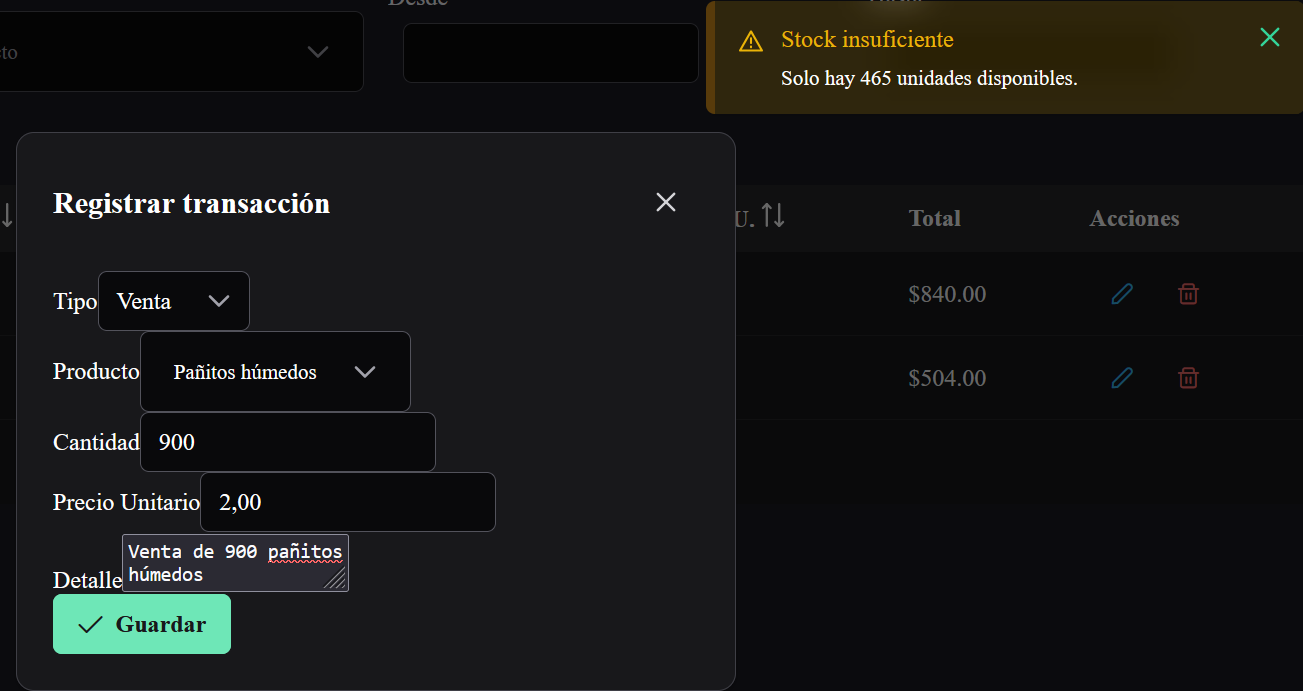
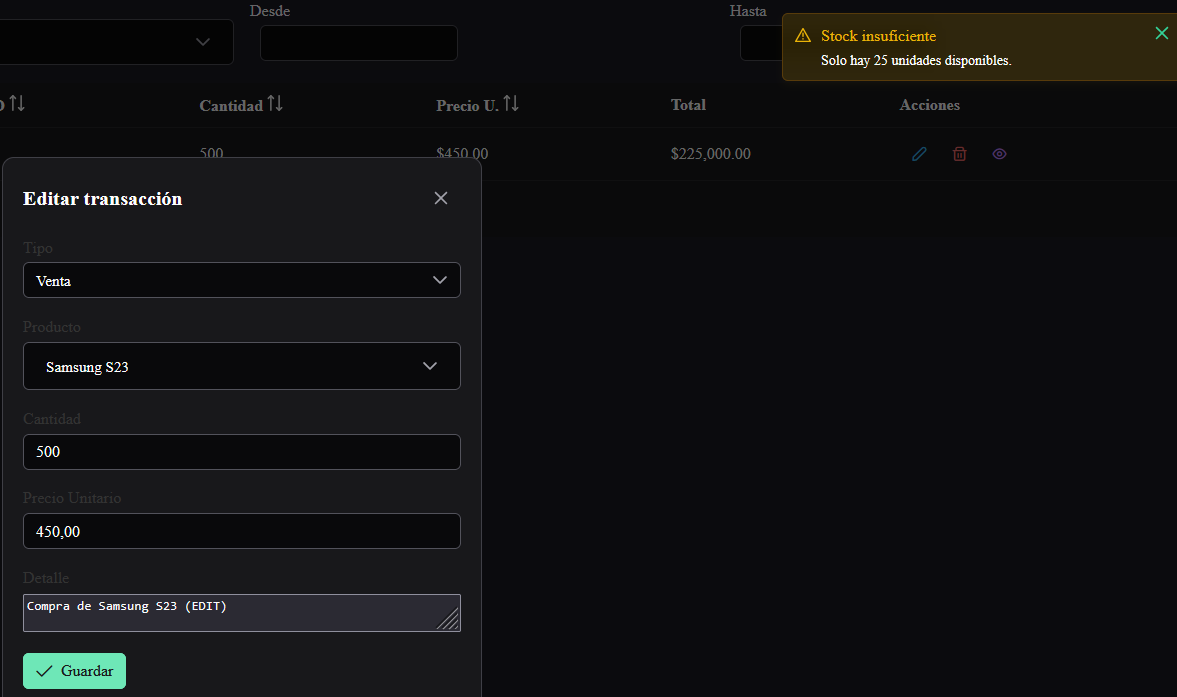
Evidencias de CRUD para producto y transacción

diff --git a/frontend/gestion/src/app/features/productos/productos.component.scss b/frontend/gestion/src/app/features/productos/productos.component.scss
@@ -26,3 +26,65 @@
   justify-content: flex-end;
   margin-bottom: 1.5rem;
 }
+
+.fab {
+  position: fixed;
+  bottom: 2rem;
+  right: 2rem;
+  z-index: 1050;
+  box-shadow: 0 4px 10px rgba(0, 0, 0, 0.2);
+}
+
+.p-dialog {
+  .p-dialog-header {
+    font-size: 1.25rem;
+    font-weight: 600;
+  }
+}
+
+form {
+  gap: 1rem;
+
+  .p-field {
+    margin-bottom: 1rem;
+
+    label {
+      display: block;
+      font-weight: 500;
+      margin-bottom: 0.4rem;
+      color: #b8b0b0;
+    }
+
+    input, textarea, .p-inputnumber {
+      width: 100%;
+    }
+  }
+
+  .preview-img {
+    display: flex;
+    justify-content: center;
+    margin-top: 1rem;
+
+    img {
+      width: 120px;
+      height: 120px;
+      object-fit: cover;
+      border-radius: 8px;
+      box-shadow: 0 2px 6px rgba(0, 0, 0, 0.15);
+    }
+  }
+
+  .botones {
+    display: flex;
+    justify-content: flex-end;
+    margin-top: 2rem;
+
+    button {
+      min-width: 120px;
+
+      &:first-child {
+        margin-right: 1rem;
+      }
+    }
+  }
+}

diff --git a/frontend/gestion/src/app/features/transacciones/transacciones.component.scss b/frontend/gestion/src/app/features/transacciones/transacciones.component.scss
@@ -19,3 +19,54 @@
   justify-content: flex-end;
   margin-bottom: 1.5rem;
 }
+
+.fab {
+  position: fixed;
+  bottom: 2rem;
+  right: 2rem;
+  z-index: 1050;
+  box-shadow: 0 4px 10px rgba(0, 0, 0, 0.2);
+}
+
+.p-dialog {
+  .p-dialog-header {
+    font-size: 1.25rem;
+    font-weight: 600;
+  }
+}
+
+form {
+  display: flex;
+  flex-direction: column;
+  gap: 1.2rem;
+
+  .p-field {
+    label {
+      display: block;
+      font-weight: 500;
+      margin-bottom: 0.4rem;
+      color: #333;
+    }
+
+    input,
+    textarea,
+    .p-dropdown,
+    .p-inputnumber {
+      width: 100%;
+    }
+
+    .p-dropdown {
+      font-size: 0.95rem;
+    }
+  }
+
+  .botones {
+    display: flex;
+    justify-content: flex-end;
+    margin-top: 1.5rem;
+
+    button {
+      min-width: 120px;
+    }
+  }
+}

diff --git a/frontend/gestion/src/app/features/transacciones/transacciones.component.html b/frontend/gestion/src/app/features/transacciones/transacciones.component.html
@@ -37,7 +37,7 @@
   (click)="abrir()"></button>
 
 <!-- Formulario de transacciones-->
-<p-dialog [(visible)]="dialogoVisible" [modal]="true" header="Registrar transacción" [style]="{width:'30rem'}">
+<p-dialog [(visible)]="dialogoVisible" [modal]="true" header="{{ modo==='nuevo' ? 'Registrar transacción' : 'Editar transacción' }}" [style]="{width:'30rem'}">
   <form class="p-fluid" (ngSubmit)="guardar()">
 
     <div class="p-field">

diff --git a/README.md b/README.md
@@ -115,7 +115,7 @@ Se generan control de validaciones para que los usuarios visualicen mensajes de 
 
 * **Visualización de formulario con detalle o consulta extendida**
 
-  ![Consulta formulario](./evidencias/detalle-transaccion.png)
+  ![Consulta formulario](./evidencias/detalle_transaccion.png)
 
 ---
 
